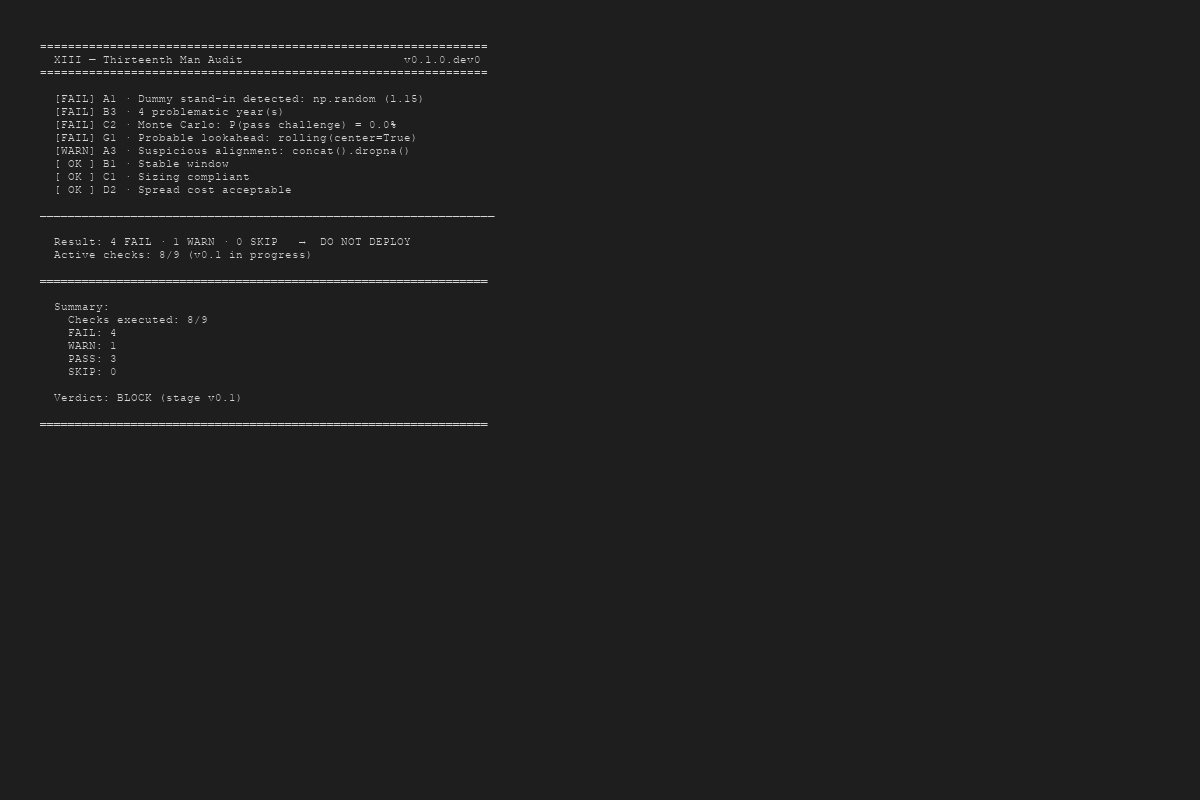
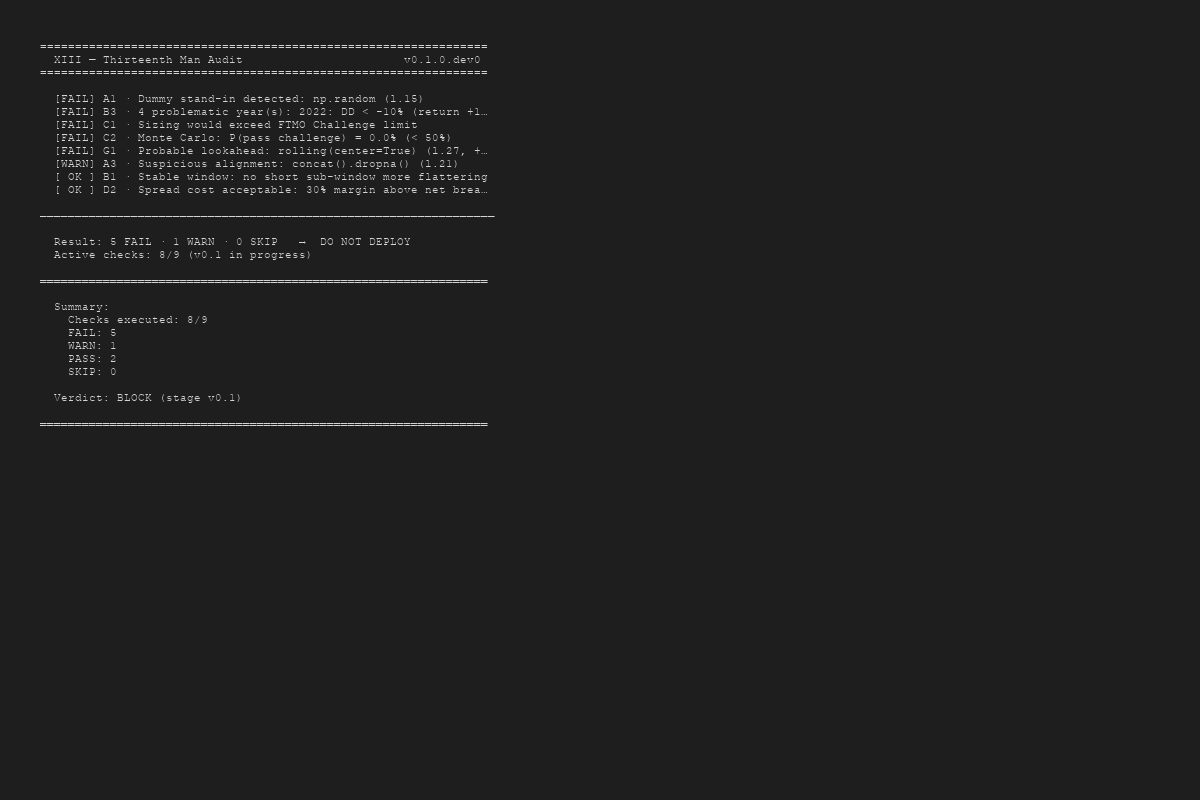
fix(examples): demo was not reproducible; regenerate S4
build_trades_from_equity() drew from the unseeded global np.random while the equity
curve used a seeded generator, so every run produced different numbers and no
screenshot could be reproduced from the code.

Regenerates S4_full_audit.png, which showed `[ OK ] C1 - Sizing compliant` directly
above a `[FAIL] B3` reporting -10.6% and -11.2% drawdowns against a -10% limit.

Changed region(s): [[0.0925, 0.125, 0.4008, 0.25], [0.0617, 0.1875, 0.0925, 0.2188]]

diff --git a/examples/demo_full_audit.py b/examples/demo_full_audit.py
@@ -36,13 +36,14 @@ def build_realistic_equity(n_days=4 * 252, sharpe_base=1.2, drawdown_base=-0.08)
 def build_trades_from_equity(equity, n_trades_target=50):
     """Simulates a trade sequence consistent with equity."""
     n_days = len(equity)
-    trade_days = np.random.choice(n_days - 1, size=n_trades_target, replace=False)
-    trade_days = np.sort(trade_days)
+    # Same seeded generator as the equity curve: the demo output must be reproducible,
+    # otherwise the screenshots in the README document a run nobody can obtain again.
+    trade_days = np.sort(rng.choice(n_days - 1, size=n_trades_target, replace=False))
 
     trades = []
     for i, day_idx in enumerate(trade_days):
         entry_idx = day_idx
-        exit_idx = min(day_idx + np.random.randint(1, 20), n_days - 1)
+        exit_idx = min(day_idx + int(rng.integers(1, 20)), n_days - 1)
 
         entry_price = equity.iloc[entry_idx]
         exit_price = equity.iloc[exit_idx]
